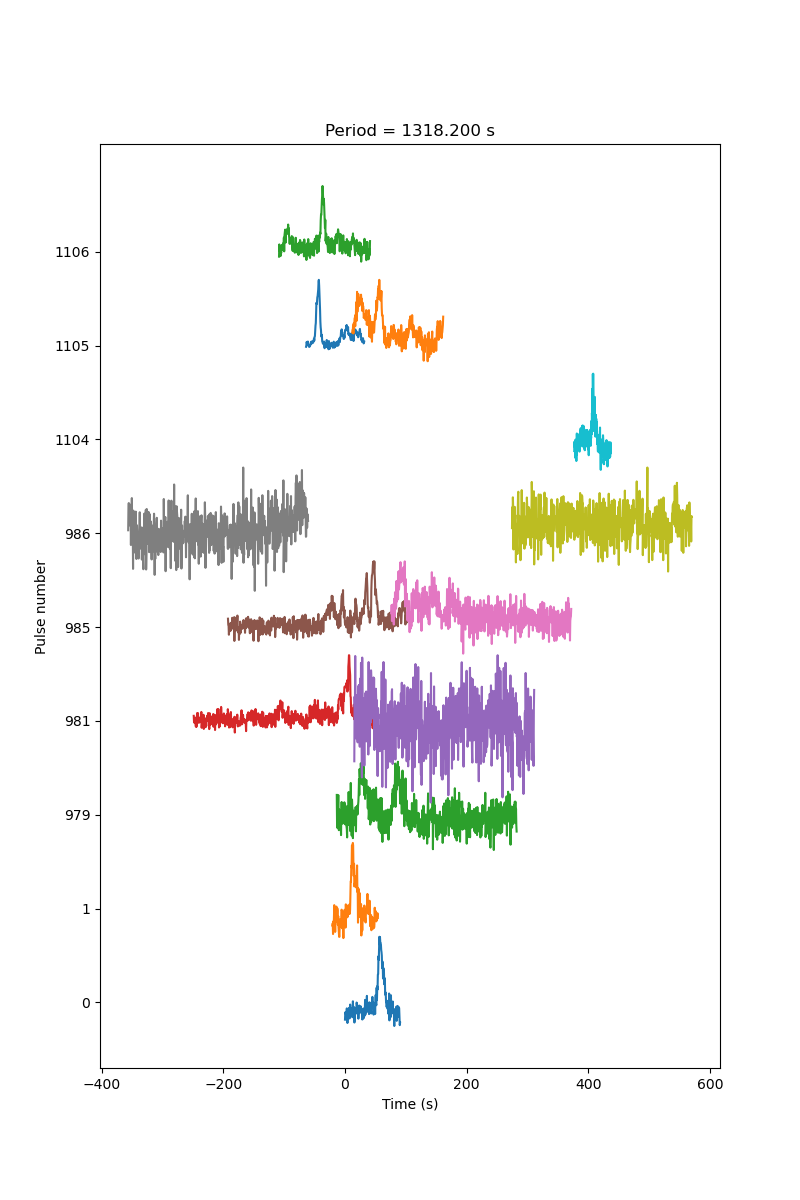
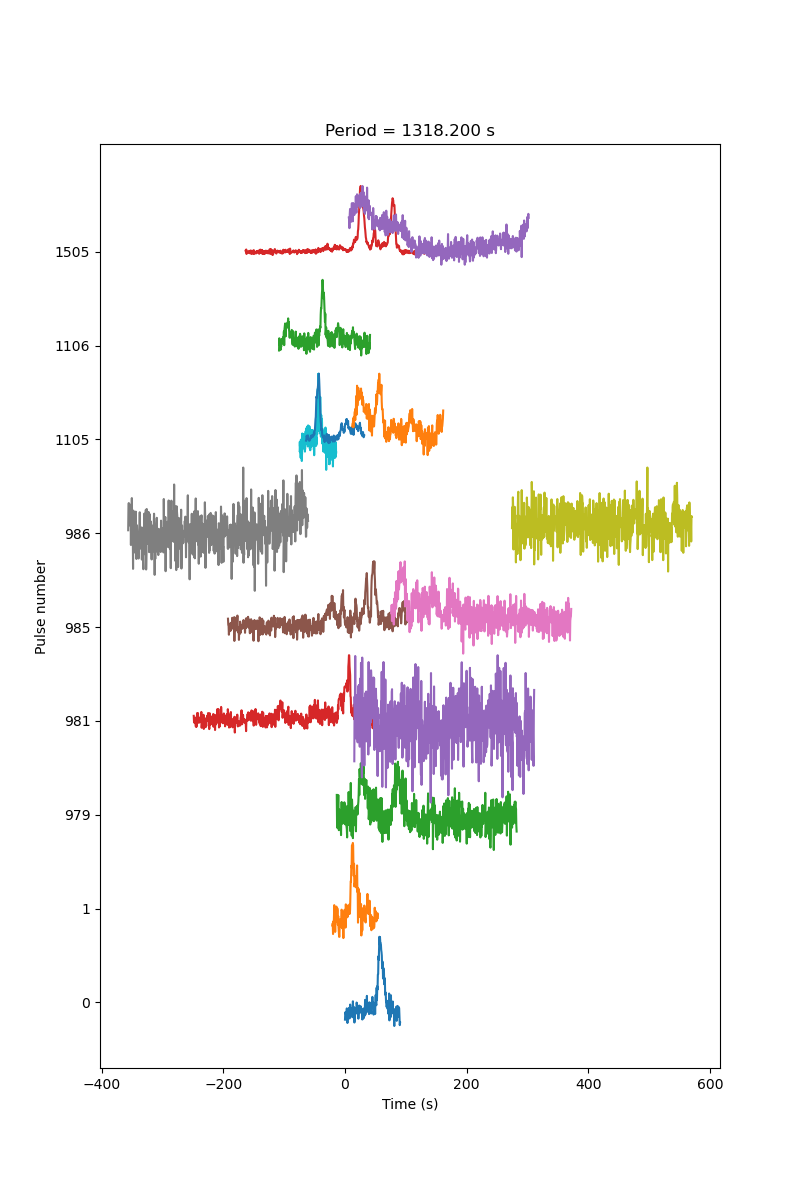
Remade pulsestack with 1318.2 s period, and with Danny's corrected PKS timestamp

Changed region(s): [[0.3125, 0.1542, 0.6562, 0.4008], [0.7188, 0.3083, 0.7812, 0.4008]]

diff --git a/dynspec/pulsestacks/README.md b/dynspec/pulsestacks/README.md
@@ -1,14 +1,8 @@
 # Pulsestacks at different periods
 
-#### 1320.92 s
-
-This is to try and get the Parkes pulse (pulse #1102 on this plot) to line up.
-
-![1320.92 seconds](pulsestack_1320.92.png)
-
 #### 1318.2 s
 
-This is to try and get the last few MWA pulses (pulses #1105 and #1106 on this plot) to line up.
+A first, rough guess by eye of the period.
 
 ![1318.2 seconds](pulsestack_1318.2.png)
 
